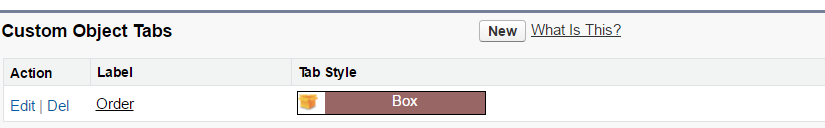
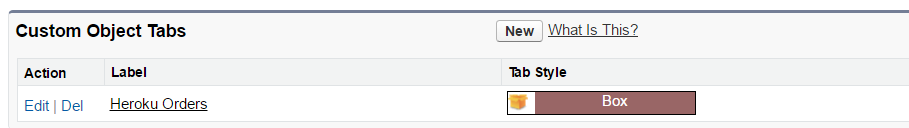
Fixes

diff --git a/documentation.tex b/documentation.tex
@@ -41,35 +41,8 @@ Before you start main configurations, you should install following programs:
 
 \begin{itemize}
 \item Git: \url{https://git-scm.com/downloads} and account on GitHub
-\item Console: ex. \url{http://cmder.net/}
-\item Python 3.6.0 and pip
-\item Apache Ant: instruction\\ \url{https://www.mkyong.com/ant/how-to-install-apache-ant-on-windows/} 
-
-\subsection{Python installation}
-Install Python and pip. You can find it in repository in \textit{Installation}.
-Remember to add Python to path(during installation it will ask you about it).\\
-
-\begin{figure}[H]
-\centering
-\includegraphics{images/python.PNG}
-\caption{Adding Python to path.}
-\label{fig:path}
-\end{figure}
-
-Then open console and type:
-
-\begin{tabular}{|l|}
-	\hline
-	python get-pip.py\\
-	pip install requirements.txt\\
-	\hline
-\end{tabular}\\
-
-\subsection{Creating a fork}
-Create a fork of original repository. \\
+\item Create a fork of original repository from \\
 https://github.com/HerokuAcc/pizzaman.git\\
-
-A fork is a copy of a repository. Forking a repository allows you to freely experiment with changes without affecting the original project.
 
 \begin{figure}[H]
 	\centering
@@ -77,8 +50,27 @@ A fork is a copy of a repository. Forking a repository allows you to freely expe
 	\caption{Creating a fork.}
 	\label{fig:fork}
 \end{figure}
+A fork is a copy of a repository. Forking a repository allows you to freely experiment with changes without affecting the original project.
+\item Console: ex. \url{http://cmder.net/}
+\item Python 3.6.0  : \url{https://www.python.org/downloads/}
+Remember to add Python to path(during installation it will ask you about it).\\
+If pip doesn't come preinstalled with Python, download it from: \url{https://pip.pypa.io/en/stable/installing/}\\
 
+\begin{figure}[H]
+	\centering
+	\includegraphics{images/python.PNG}
+	\caption{Adding Python to path.}
+	\label{fig:path}
+\end{figure}
 
+Then open console and type:\\
+\begin{tabular}{|l|}
+	\hline
+	python get-pip.py\\
+	pip install requirements.txt\\
+	\hline
+\end{tabular}\\
+\item Apache Ant: instruction\\ \url{https://www.mkyong.com/ant/how-to-install-apache-ant-on-windows/} 
 
 \end{itemize}
 
@@ -120,12 +112,6 @@ Click 'Site.com' button and select 'Sales'.
 \end{figure}
 \subsection{Network access configuration}
 To successfully deployment it is needed to configure network access.
-\begin{figure}[H]
-	\centering
-	\includegraphics{images/connect5.PNG}
-	\caption{Logging into Salesforce.}
-	\label{fig:log}
-\end{figure}
 To do that it is needed to know the user’s IP address. IP can be checked using site: \url{https://www.whatismyip.com/}.
 Once you know the IP address click 'setup' section. In the quick find search for network access and click on it.  
 
@@ -136,7 +122,7 @@ Once you know the IP address click 'setup' section. In the quick find search for
 	\label{fig:setup}
 \end{figure}
 
-Click 'New'. Paste IP of yours in 'Start IP Address' section. In 'End IP address' add the same IP with some extra range.
+Click 'New'. Paste IP of yours in 'Start IP Address' and in 'End IP address' sections.
 
 \begin{figure}[H]
 	\centering
@@ -149,11 +135,11 @@ Click 'New'. Paste IP of yours in 'Start IP Address' section. In 'End IP address
 Download repository with command:\\
 \begin{tabular}{|l|}
 	\hline
-	git clone \textit{YourRepoPath}\\
+	git clone \textit{YourRepoLink}\\
 	\hline
 \end{tabular}\\
 
-In order to deploy prepared Salesforce configurations use downloaded repository. Open console, move to repository and 'salesforce' file using commands:\\
+In order to deploy prepared Salesforce configurations use downloaded repository. Open console, move to repository and 'salesforce' directory using commands:\\
 
 \begin{tabular}{|l|}
 	\hline
@@ -162,7 +148,7 @@ In order to deploy prepared Salesforce configurations use downloaded repository.
 	\hline
 \end{tabular}\\
 
-Edit 'build.properties\_example' change username and password to one you use for Salesforce and save file as 'build.properties'
+Edit 'build.properties\_example' change Salesforce username and Salesforce password to ones you are using for Salesforce and save file as 'build.properties'
 Then write in your console command for Ant:
 
 \begin{tabular}{|l|}
@@ -204,7 +190,7 @@ To do that find Developer Console, use hot key CTRL+E and click 'Execute' button
 	\label{fig:apex}
 \end{figure}
 
-\subsection{Creating tab}
+\subsection{Creating tab(optional)}
 
 In order to have easier access to custom object you have to create tab. To do that, open 'Setup', an in 'Quick find' type 'tab'. Click on 'Tab'.
 
@@ -214,15 +200,15 @@ In order to have easier access to custom object you have to create tab. To do th
 	\caption{Finding a tab.}
 	\label{fig:tab}
 \end{figure}
-
-Then click 'New' button and choose an object you want. Then click 'Next' all the time. In the end click 'Save'.
-
+If you have tab named 'Heroku Orders' as shown on Figure \ref{fig:tabb} you can go to next section withoutcreating new tab.
 \begin{figure}[H]
 	\centering
 	\includegraphics{images/create.PNG}
 	\caption{Creating new tab.}
 	\label{fig:tabb}
 \end{figure}
+
+If you don't have tab 'Heroku Order', click 'New' button and choose an object you want. Then click 'Next' all the time. In the end click 'Save'.
 
 \begin{figure}[H]
 	\centering
@@ -243,6 +229,15 @@ Now you can create your own app according to steps below:
 \end{enumerate}
 
 \subsection{Connect to Git}
+In order to open your app, click on menu and then select 'Dashboard'.\\
+
+\begin{figure}[H]
+	\centering
+	\includegraphics{images/dashboard.PNG}
+	\caption{Heroku menu}
+	\label{fig:menu}
+\end{figure}
+
 To connect Heroku with Git click on menu and then select 'Deploy'. In 'Deployment method' choose GitHub.
 \begin{figure}[H]
 	\centering
@@ -262,15 +257,8 @@ Next step is selecting repository.
 
 
 \subsection{Postgres}
-In order to open your app, click on menu and then select 'Dashboard'.\\
 
-\begin{figure}[H]
-\centering
-\includegraphics{images/dashboard.PNG}
-\caption{Heroku menu}
-\label{fig:menu}
-\end{figure}
-After that, choose your app and select 'Resources' button.
+In order to find 'Postgres' choose your app and select 'Resources' button.
 \begin{figure}[H]
 	\centering
 	\includegraphics{images/nav.PNG}
@@ -307,6 +295,14 @@ Now you have Heroku Connect avaliable.
 	\caption{Avaliable Heroku Connect.}
 	\label{fig:cona}
 \end{figure}
+Click on Heroku Connect and then 'Allow' button.
+\begin{figure}[H]
+	\centering
+	\includegraphics{images/autconn.PNG}
+	\caption{Heroku Connect autorization.}
+	\label{fig:auto}
+\end{figure}
+
 
 \item Click on 'Setup connection' button.
 \begin{figure}[H]
@@ -444,7 +440,7 @@ List of objects and fields you must map and cofigurations you must check:\\
 
 
 \section{DATABASES settings}
-To use prepared configurations, open project downloaded from GitHub. Open \textit{gettingstarted} directory. Next, open \textit{settings.py} file. Here is \textit{DATABASES} attribute you insert your data.  
+To use prepared configurations, open project downloaded from GitHub. Open \textit{gettingstarted} directory. Next, open \textit{settings.py} file. There is \textit{DATABASES} attribute you insert your data.  
 
 \begin{figure}[H]
 	\centering
@@ -453,7 +449,7 @@ To use prepared configurations, open project downloaded from GitHub. Open \texti
 	\label{fig:data}
 \end{figure}
 
-To get information about data you want insert, log into Heroku. Open your app, then 'Resources' and Postgres. Find 'Administration', 'Database Credintals' and click 'View Credintals' button. Here are needed data.
+To get information about data you want insert, log into Heroku. Open your app, then 'Resources' and Postgres. Find 'Administration', 'Database Credintals' and click 'View Credintals' button. There are needed data.
 
 \begin{figure}[H]
 	\centering
@@ -473,7 +469,7 @@ To get information about data you want insert, log into Heroku. Open your app, t
 \section{Code deployment}
 In order to open app, you can do it by Heroku or using commands. \\
 \subsection{By Heroku}
-Log into Heroku and open 'Deploy'.
+Log into Heroku and open 'Deploy'. You have three ways to deploy the code, but in this situation use only 'Manual deploy'.
 
 \subsubsection{Automatic deploy}
  Find 'Automatic Deploys' and set configurations as shown on Figure\ref{fig:dep}. Then click on 'Enable Automatic Deploys' button.
@@ -486,13 +482,13 @@ Log into Heroku and open 'Deploy'.
 \end{figure}
 
 \subsubsection{Manual deploy}
- Find 'Manual Deploy' and set configurations as shown on Figure\ref{fig:dep}. Then click on 'Deploy branch' button.
+ Find 'Manual Deploy' and set configurations as shown on Figure\ref{fig:depp}. Then click on 'Deploy branch' button.
 
 \begin{figure}[H]
 	\centering
 	\includegraphics[width=1\textwidth]{images/manual.PNG}
 	\caption{Manual deploying code.}
-	\label{fig:dep}
+	\label{fig:depp}
 \end{figure}
 
 \subsection{Using commands}
@@ -508,6 +504,14 @@ To open app in local host type in console following commands:\\
 	\hline
 \end{tabular}\\
 
+
+After deployment, you can open your app, on the same page, by clicking on 'Open app' button which is on the right top corner of this page. 
+\begin{figure}[H]
+	\centering
+	\includegraphics[width=0.3\textwidth]{images/openapp.PNG}
+	\caption{Opening the app.}
+	\label{fig:opapp}
+\end{figure}
 \begin{thebibliography}{bib}
 	\bibitem{cos} 
 	 Rao, Leena. 
